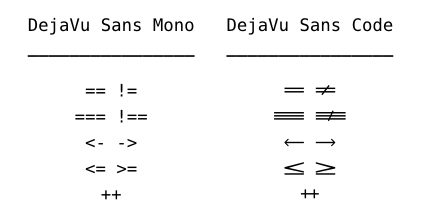
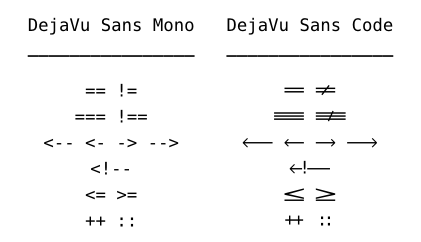
Implemented symbol list updated.

diff --git a/README.md b/README.md
@@ -11,7 +11,7 @@ Sans Mono. This repository is a fork of the
 
 Currently implemented symbols
 ---------------------------
-== != === !=== <- -> <= => ++
+    == != === !=== <!-- <-- <- -> --> <= => ++ ::
 
 Supported editors
 ---------------------------
